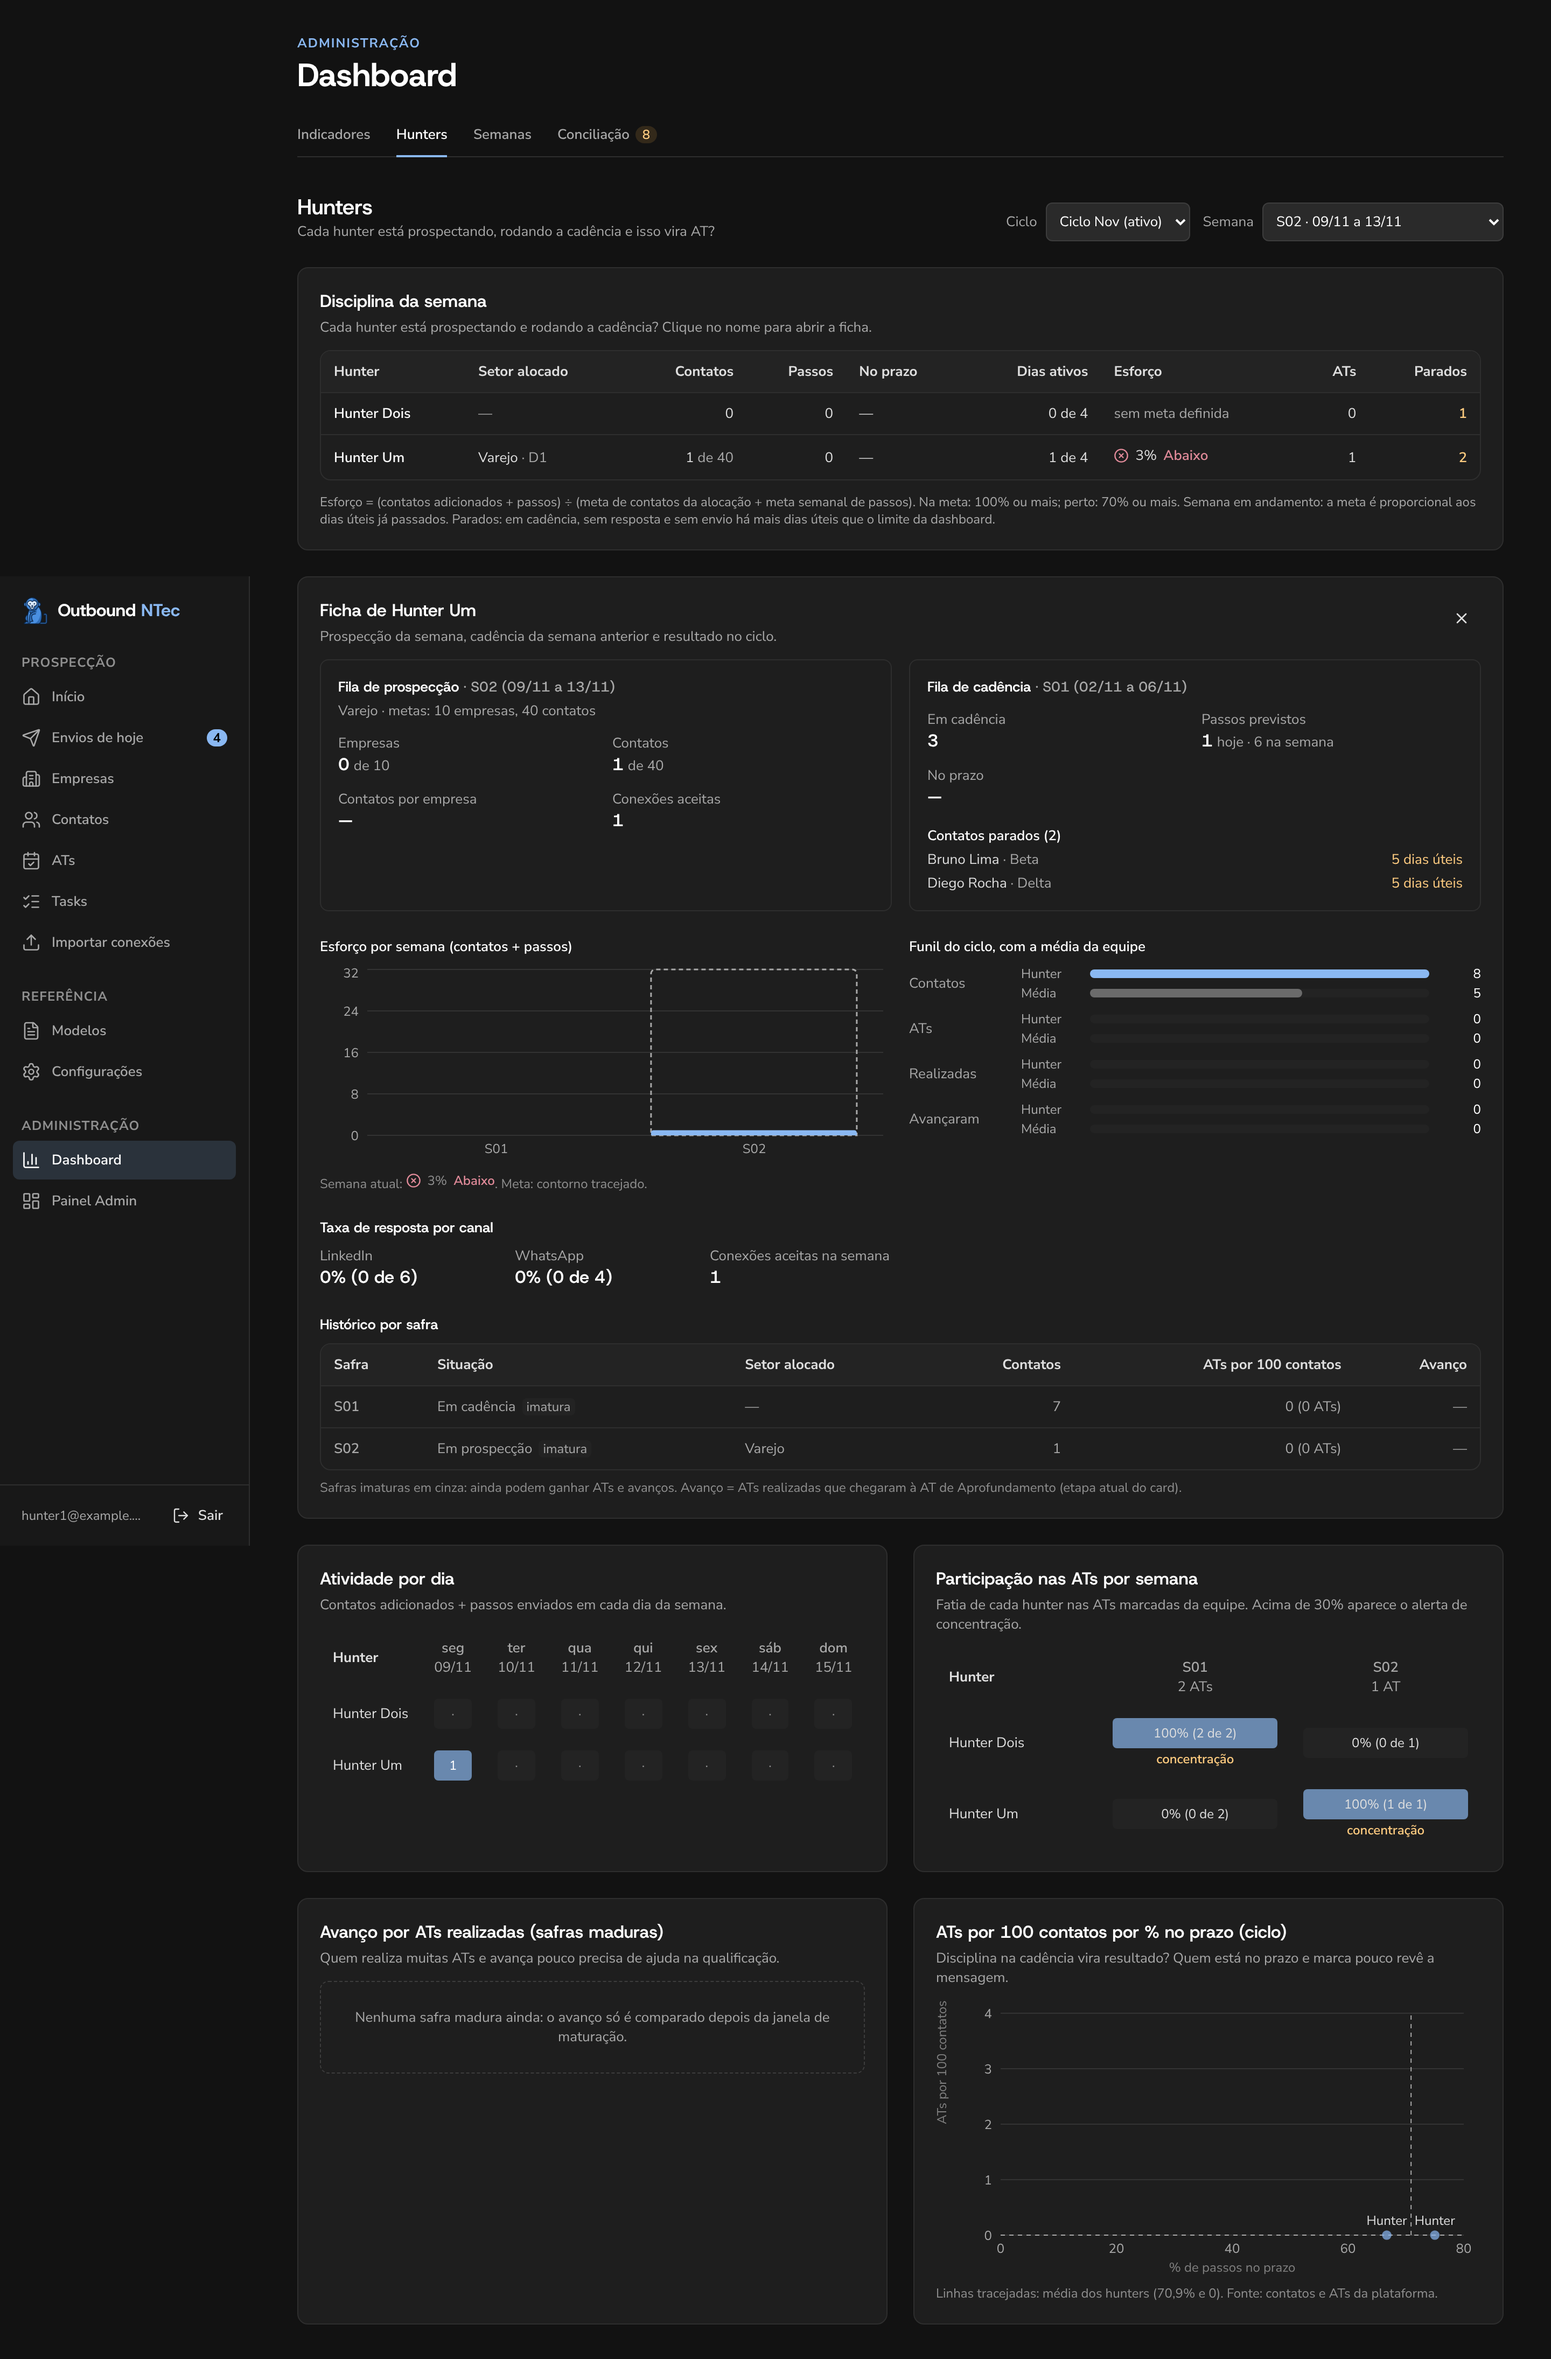
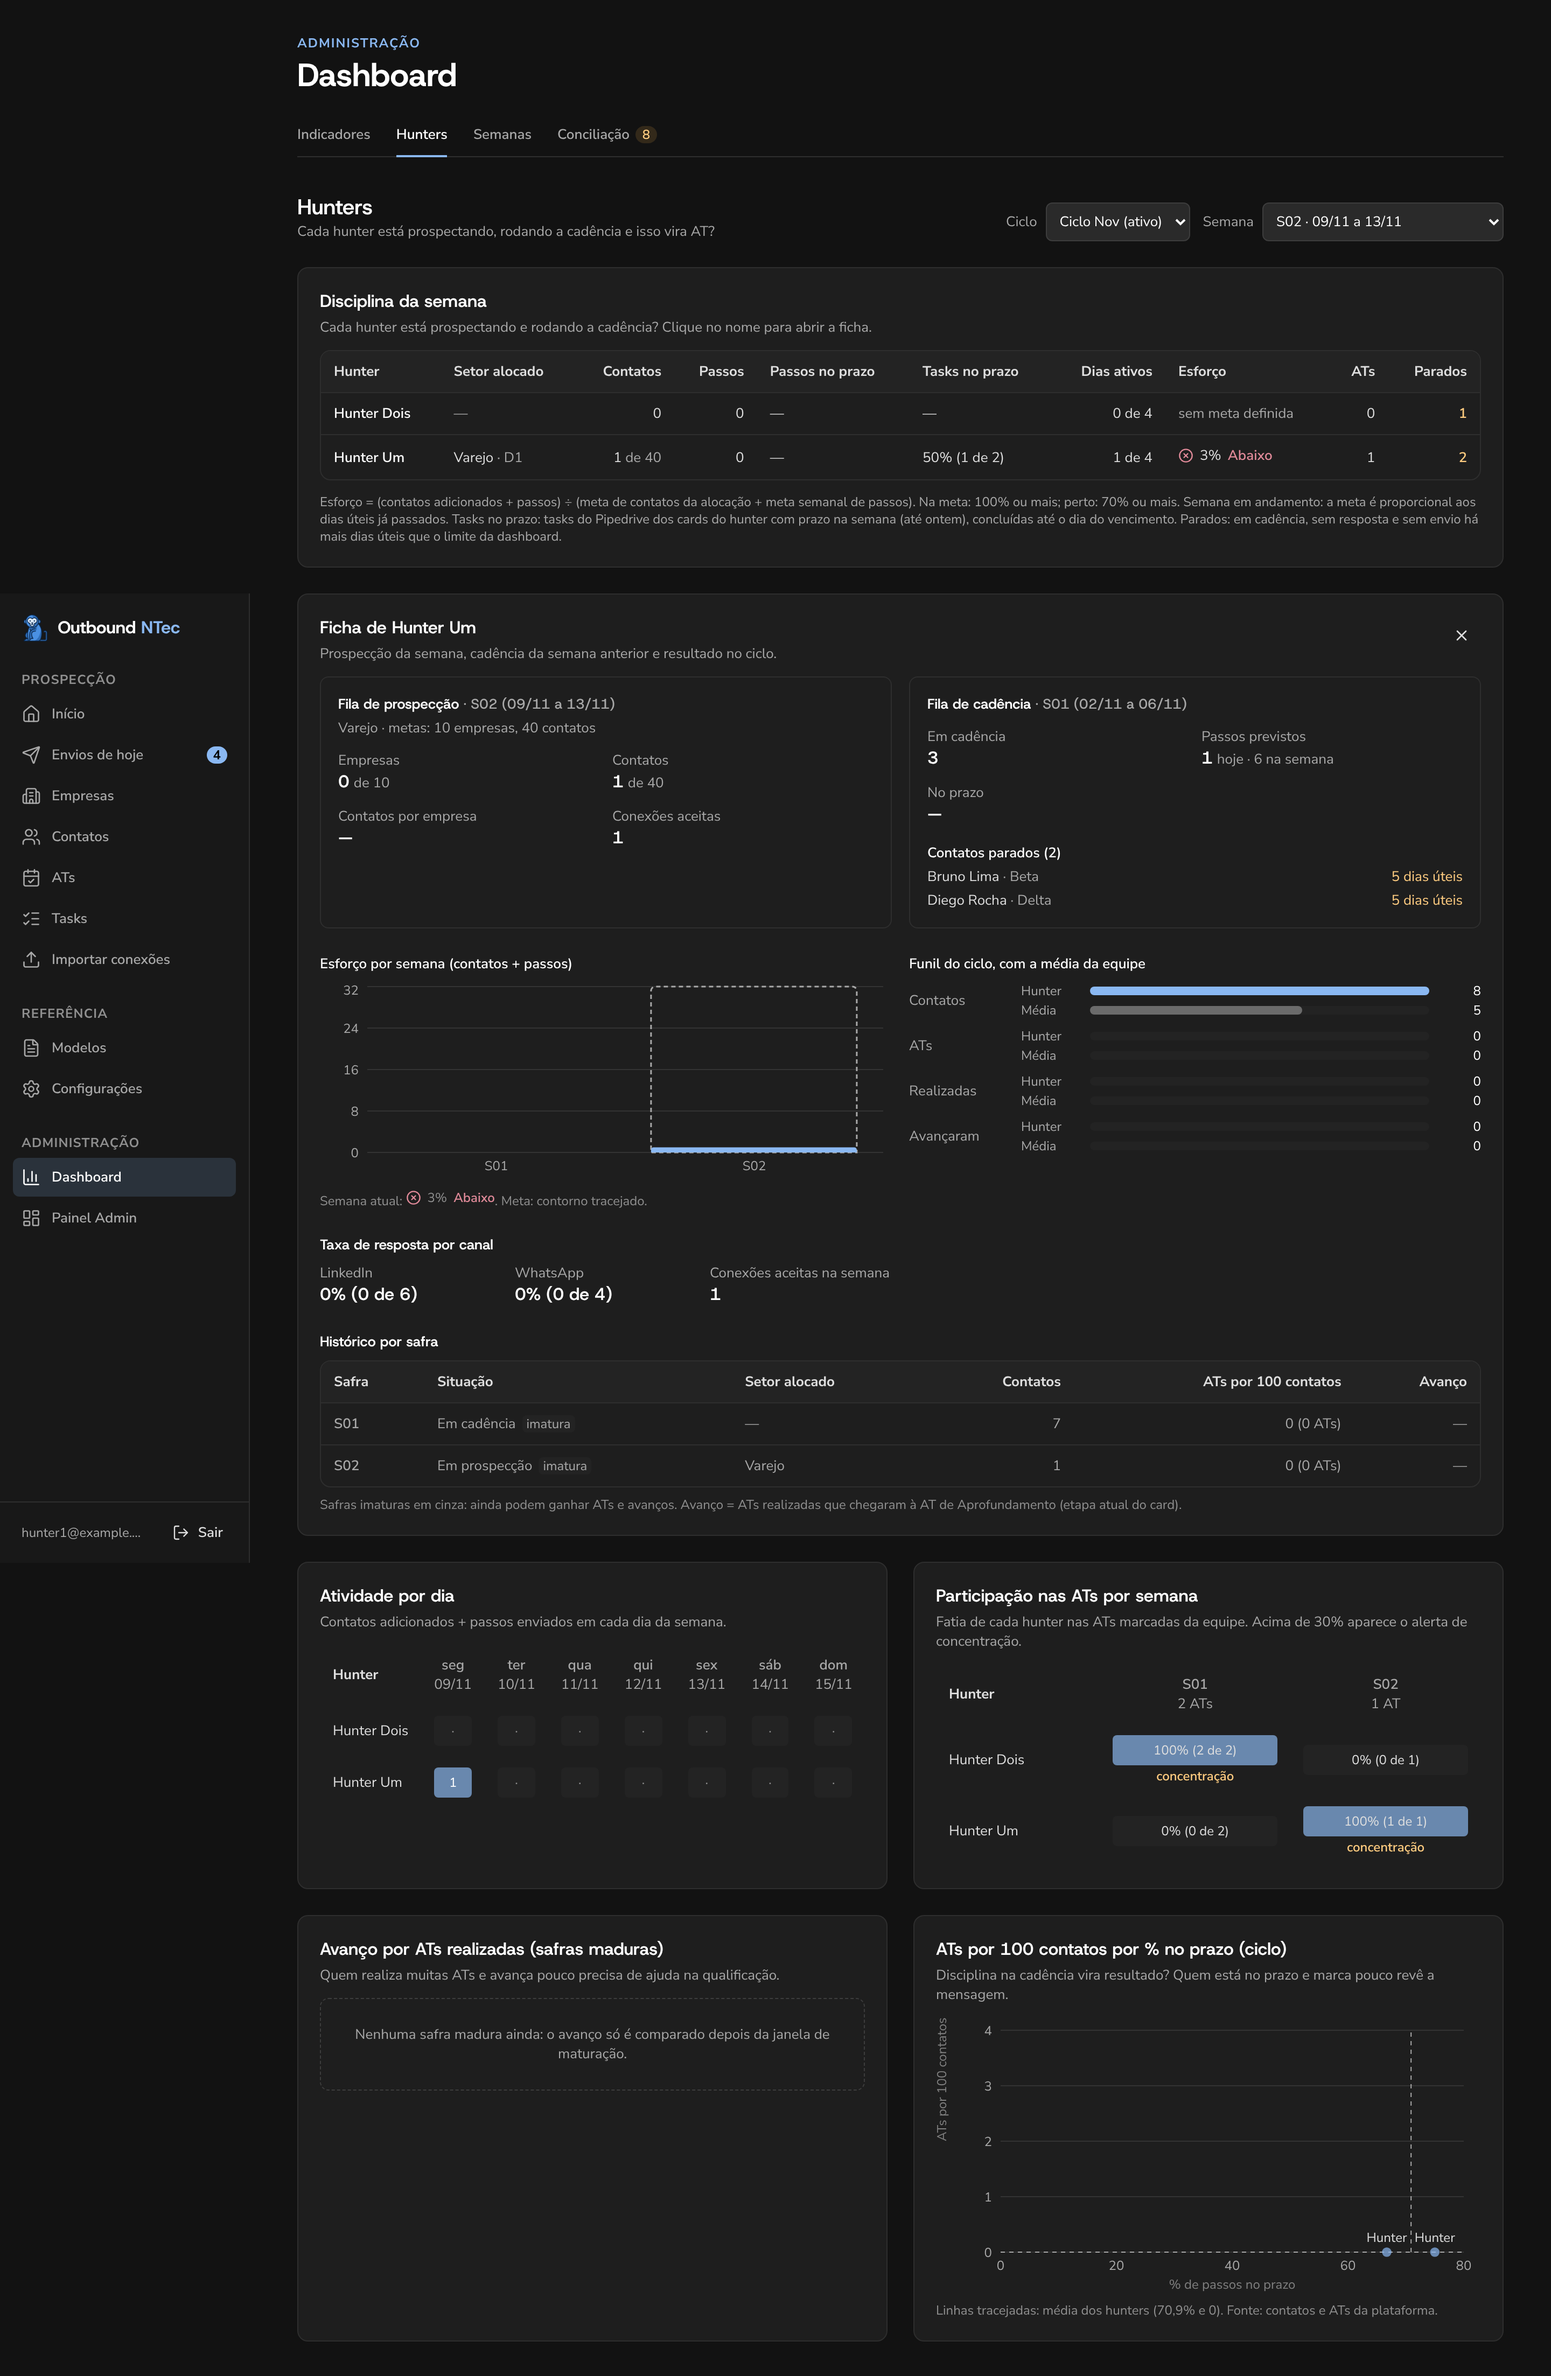
feat(painel): coluna de tasks no prazo na disciplina da semana
Fase 5 da dashboard de outbound (uso da cópia do Pipedrive na aba Hunters). A tabela "Disciplina
da semana" ganha "Tasks no prazo" (taxa com o volume; "—" quando o hunter não tem tasks copiadas)
e a coluna de passos passa a se chamar "Passos no prazo"; a nota explica a regra. e2e: tasks do
hunter1 na cópia (1 de 2 no prazo).

Claude-Session: https://claude.ai/code/session_0137A66yoRLBZ4ngndr6bSBF

diff --git a/src/components/dashboard/hunters/DisciplinaTabela.tsx b/src/components/dashboard/hunters/DisciplinaTabela.tsx
@@ -25,23 +25,24 @@ export function DisciplinaTabela({
           <caption className="sr-only">Disciplina de cada hunter na semana</caption>
           <thead className="bg-surface-inset">
             <tr>
-              {[
-                "Hunter",
-                "Setor alocado",
-                "Contatos",
-                "Passos",
-                "No prazo",
-                "Dias ativos",
-                "Esforço",
-                "ATs",
-                "Parados",
-              ].map((t, i) => (
+              {(
+                [
+                  ["Hunter", "left"],
+                  ["Setor alocado", "left"],
+                  ["Contatos", "right"],
+                  ["Passos", "right"],
+                  ["Passos no prazo", "left"],
+                  ["Tasks no prazo", "left"],
+                  ["Dias ativos", "right"],
+                  ["Esforço", "left"],
+                  ["ATs", "right"],
+                  ["Parados", "right"],
+                ] as const
+              ).map(([t, lado]) => (
                 <th
                   key={t}
                   scope="col"
-                  className={
-                    i >= 2 && i !== 4 && i !== 6 ? "px-3 py-2 text-right" : "px-3 py-2 text-left"
-                  }
+                  className={lado === "right" ? "px-3 py-2 text-right" : "px-3 py-2 text-left"}
                 >
                   {t}
                 </th>
@@ -87,6 +88,14 @@ export function DisciplinaTabela({
                   <td className="px-3 py-2 tabular-nums whitespace-nowrap">
                     {taxa(dis.noPrazo, dis.devidos)}
                   </td>
+                  <td
+                    className="px-3 py-2 tabular-nums whitespace-nowrap"
+                    title={
+                      dis.tasks ? undefined : "Sem tasks copiadas do Pipedrive para este hunter"
+                    }
+                  >
+                    {dis.tasks ? taxa(dis.tasks.noPrazo, dis.tasks.devidas) : "—"}
+                  </td>
                   <td className="px-3 py-2 text-right tabular-nums whitespace-nowrap">
                     {dis.diasAtivos} de {dis.diasUteis}
                   </td>
@@ -116,8 +125,10 @@ export function DisciplinaTabela({
       <p className="mt-3 text-caption text-muted-foreground">
         Esforço = (contatos adicionados + passos) ÷ (meta de contatos da alocação + meta semanal de
         passos). Na meta: 100% ou mais; perto: {d.esforcoAlertaPct}% ou mais.
-        {parcial && " Semana em andamento: a meta é proporcional aos dias úteis já passados."}{" "}
-        Parados: em cadência, sem resposta e sem envio há mais dias úteis que o limite da dashboard.
+        {parcial && " Semana em andamento: a meta é proporcional aos dias úteis já passados."} Tasks
+        no prazo: tasks do Pipedrive dos cards do hunter com prazo na semana (até ontem), concluídas
+        até o dia do vencimento. Parados: em cadência, sem resposta e sem envio há mais dias úteis
+        que o limite da dashboard.
       </p>
     </Section>
   );

diff --git a/e2e/dashboard-hunters.spec.ts b/e2e/dashboard-hunters.spec.ts
@@ -19,6 +19,8 @@ test.describe("Dashboard › Hunters", () => {
     await expect(um).toContainText("1 de 40");
     await expect(um).toContainText("3%");
     await expect(um).toContainText("Abaixo");
+    // Tasks do Pipedrive com prazo até ontem: 1 de 2 concluída no dia do vencimento.
+    await expect(um).toContainText("50% (1 de 2)");
     // Bruno e Diego estão sem envio há 5 dias úteis.
     await expect(um.getByRole("cell").last()).toHaveText("2");
     const dois = tabela.getByRole("row", { name: /Hunter Dois/ });
